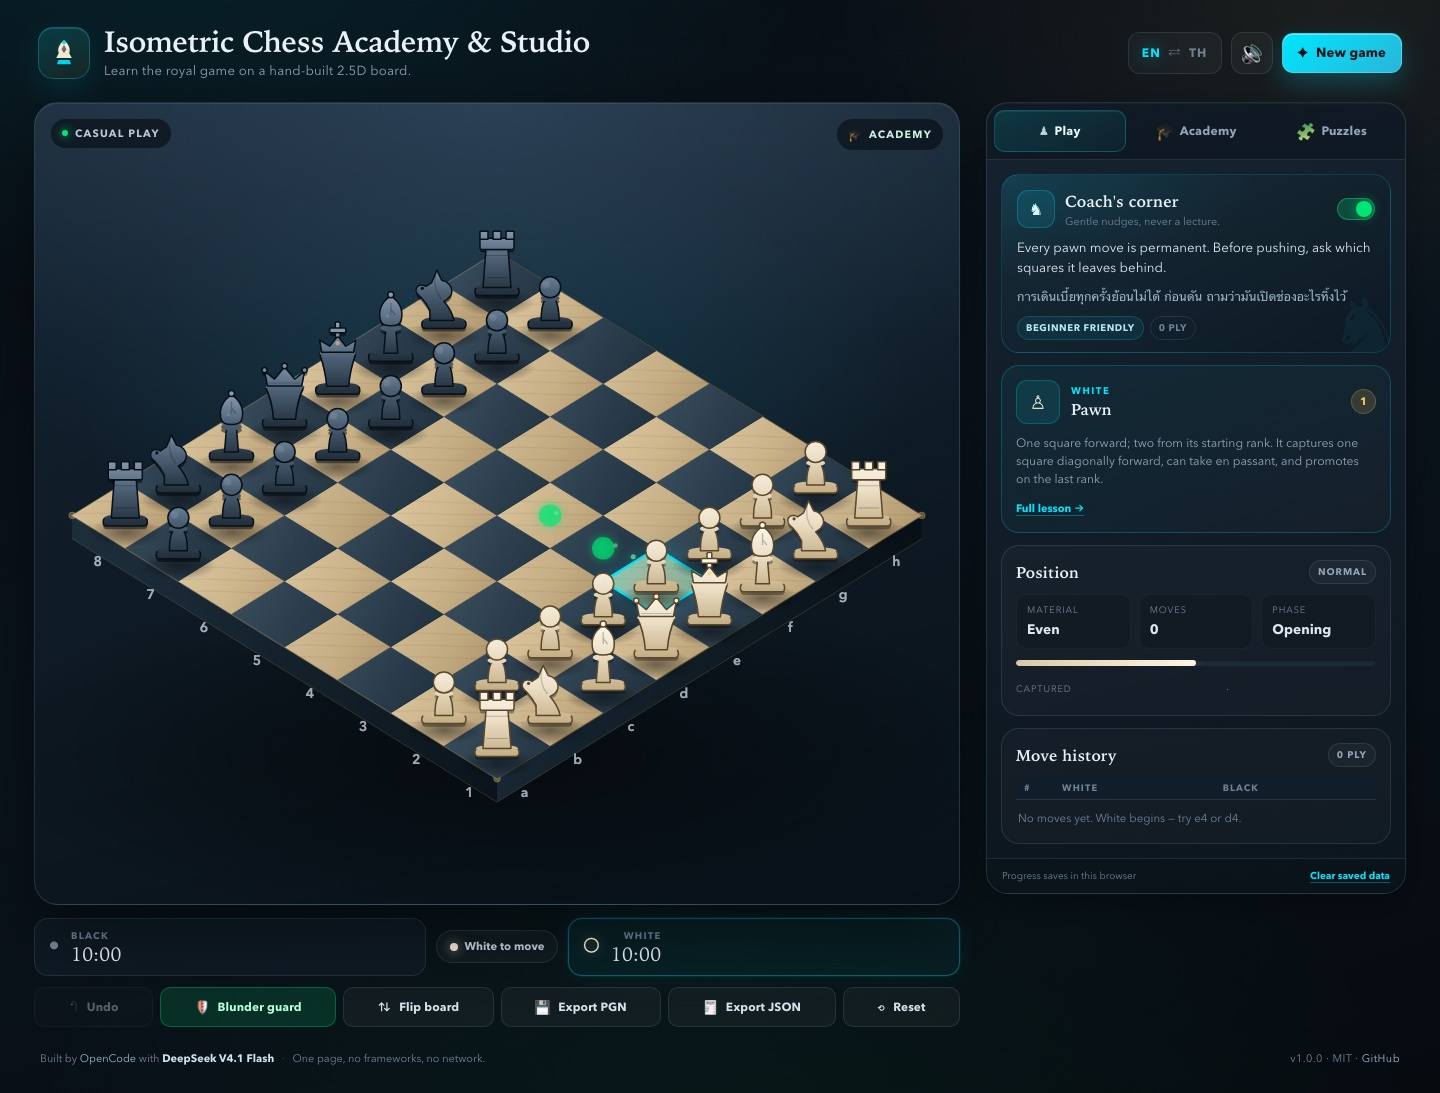
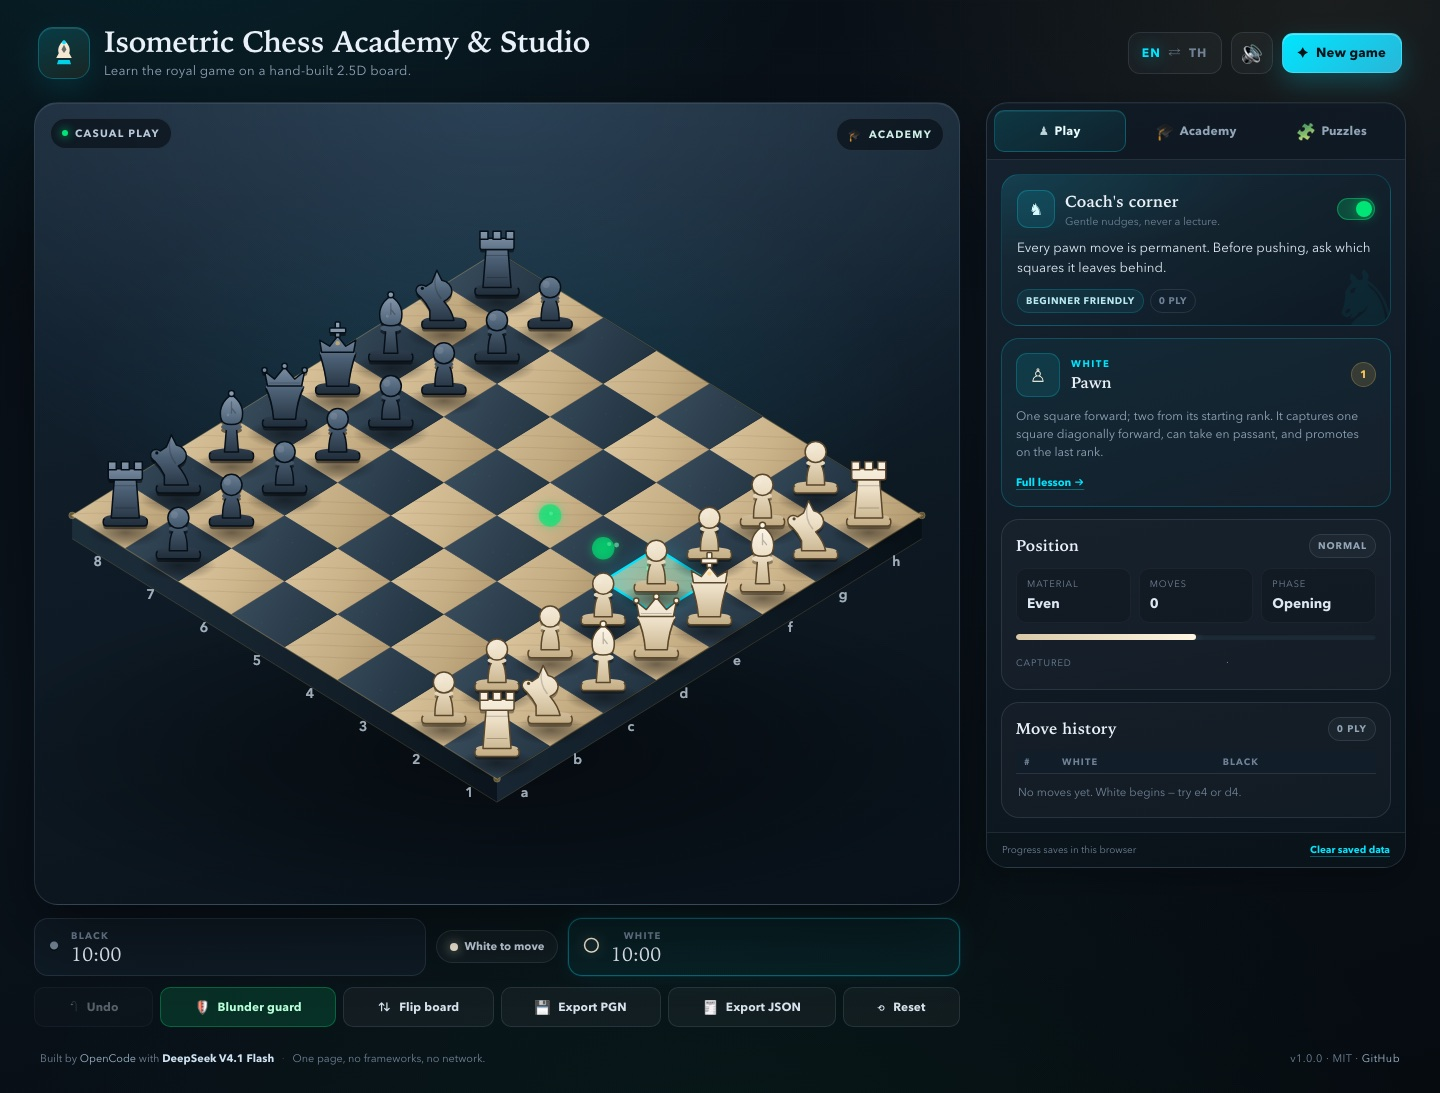
Show only the selected language in the coach and dialogs
English mode no longer displays Thai text, and Thai mode no longer
displays English coach lines or lesson paragraphs. The inactive coach
line is hidden with html[lang] CSS; blunder, undo and puzzle-solved
dialogs render the active language only and re-render when the toggle
changes while open. Refresh screenshots and add regression checks.

diff --git a/script.js b/script.js
@@ -788,6 +788,8 @@
       'blunder.tipTh': 'ก่อนเดิน ถามตัวเองว่า: หมากตัวนี้ปลอดภัยบนช่องใหม่หรือไม่?',
       'blunder.mateTipEn': 'When you are ahead, check every opponent check and capture. One careless move is enough.',
       'blunder.mateTipTh': 'เมื่อได้เปรียบ ให้ตรวจการเช็คและการกินทุกครั้งของคู่ต่อสู้ เพราะหมากพลาดครั้งเดียวก็พอ',
+      'blunder.tip': 'Before you move, ask: is this piece safe on its new square?',
+      'blunder.mateTip': 'When you are ahead, check every opponent check and capture. One careless move is enough.',
       'blunder.safe': 'The move was undone, so nothing is lost. Look for a developing move, a capture, or a check.',
       'blunder.safeTh': 'ย้อนหมากแล้ว ไม่มีอะไรเสียหาย มองหาการเดินพัฒนาหมาก การกิน หรือการเช็ค',
       'a11y.moveAnnounce': '{side} played {san}.'
@@ -953,7 +955,9 @@
       'blunder.tipTh': 'ก่อนเดิน ถามตัวเองว่า: หมากตัวนี้ปลอดภัยบนช่องใหม่หรือไม่?',
       'blunder.mateTipEn': 'When you are ahead, check every opponent check and capture. One careless move is enough.',
       'blunder.mateTipTh': 'เมื่อได้เปรียบ ให้ตรวจการเช็คและการกินทุกครั้งของคู่ต่อสู้ เพราะหมากพลาดครั้งเดียวก็พอ',
-      'blunder.safe': 'The move was undone, so nothing is lost. Look for a developing move, a capture, or a check.',
+      'blunder.tip': 'ก่อนเดิน ถามตัวเองว่า: หมากตัวนี้ปลอดภัยบนช่องใหม่หรือไม่?',
+      'blunder.mateTip': 'เมื่อได้เปรียบ ให้ตรวจการเช็คและการกินทุกครั้งของคู่ต่อสู้ เพราะหมากพลาดครั้งเดียวก็พอ',
+      'blunder.safe': 'ย้อนหมากแล้ว ไม่มีอะไรเสียหาย มองหาการเดินพัฒนาหมาก การกิน หรือการเช็ค',
       'blunder.safeTh': 'ย้อนหมากแล้ว ไม่มีอะไรเสียหาย มองหาการเดินพัฒนาหมาก การกิน หรือการเช็ค',
       'a11y.moveAnnounce': '{side} เล่น {san}'
     }
@@ -1359,6 +1363,16 @@
     updatePuzzleUI();
     updateButtons();
     renderCoach();
+    if (els.learnModal && !els.learnModal.classList.contains('hidden') && UI.learnContext) {
+      if (UI.learnContext.kind === 'undo') openUndoLearn(UI.learnContext.move);
+      else openBlunderModal(UI.learnContext.move);
+    }
+    if (els.puzzleModal && !els.puzzleModal.classList.contains('hidden') && UI.puzzleModalData) {
+      openPuzzleSolved(UI.puzzleModalData);
+    }
+    if (els.endModal && !els.endModal.classList.contains('hidden') && UI.gameOverInfo) {
+      openEndModal(UI.gameOverInfo);
+    }
     saveState();
   }
 
@@ -2914,22 +2928,19 @@
     els.learnTitle.textContent = t('learn.blunderTitle');
     els.learnBody.innerHTML = '';
     var p1 = document.createElement('p');
-    p1.setAttribute('lang', 'en');
-    p1.textContent = ex.en;
-    var p2 = document.createElement('p');
-    p2.setAttribute('lang', 'th');
-    p2.textContent = ex.th;
+    p1.setAttribute('lang', UI.lang);
+    p1.textContent = UI.lang === 'en' ? ex.en : ex.th;
     var tip = document.createElement('p');
     tip.className = 'learn-tip';
-    tip.textContent = (b.kind === 'mate' ? t('blunder.mateTipEn') : t('blunder.tipEn')) + ' · ' +
-      (b.kind === 'mate' ? t('blunder.mateTipTh') : t('blunder.tipTh'));
+    tip.setAttribute('lang', UI.lang);
+    tip.textContent = b.kind === 'mate' ? t('blunder.mateTip') : t('blunder.tip');
     els.learnBody.appendChild(p1);
-    els.learnBody.appendChild(p2);
     els.learnBody.appendChild(tip);
     els.learnUndo.classList.remove('hidden');
     els.learnUndo.textContent = t('btn.undoLearn');
     els.learnClose.textContent = t('btn.keep');
     UI.learnAction = 'undo';
+    UI.learnContext = { kind: 'blunder', move: move };
     openModal(els.learnModal, els.learnUndo);
   }
 
@@ -2939,18 +2950,17 @@
     els.learnTitle.textContent = t('learn.whyTitle');
     els.learnBody.innerHTML = '';
     var p1 = document.createElement('p');
-    p1.setAttribute('lang', 'en');
-    p1.textContent = ex.en;
-    var p2 = document.createElement('p');
-    p2.setAttribute('lang', 'th');
-    p2.textContent = ex.th;
+    p1.setAttribute('lang', UI.lang);
+    p1.textContent = UI.lang === 'en' ? ex.en : ex.th;
     var tip = document.createElement('p');
     tip.className = 'learn-tip';
-    tip.textContent = t('blunder.safe') + ' · ' + t('blunder.safeTh');
-    els.learnBody.appendChild(p1); els.learnBody.appendChild(p2); els.learnBody.appendChild(tip);
+    tip.setAttribute('lang', UI.lang);
+    tip.textContent = t('blunder.safe');
+    els.learnBody.appendChild(p1); els.learnBody.appendChild(tip);
     els.learnUndo.classList.add('hidden');
     els.learnClose.textContent = t('btn.close') || 'Got it';
     UI.learnAction = 'close';
+    UI.learnContext = { kind: 'undo', move: move };
     openModal(els.learnModal, els.learnClose);
   }
 
@@ -3120,15 +3130,11 @@
     els.puzzleText.textContent = p.success[UI.lang];
     els.puzzleLesson.innerHTML = '';
     var p1 = document.createElement('p');
+    p1.setAttribute('lang', UI.lang);
     p1.textContent = p.lesson[UI.lang];
-    var p2 = document.createElement('p');
-    p2.setAttribute('lang', UI.lang === 'en' ? 'th' : 'en');
-    p2.style.color = 'var(--muted)';
-    p2.style.fontSize = '0.78rem';
-    p2.textContent = p.lesson[UI.lang === 'en' ? 'th' : 'en'];
     els.puzzleLesson.appendChild(p1);
-    els.puzzleLesson.appendChild(p2);
     els.puzzleLesson.classList.remove('hidden');
+    UI.puzzleModalData = p;
     openModal(els.puzzleModal, els.puzzleNext);
     updatePuzzleUI();
   }

diff --git a/style.css b/style.css
@@ -553,12 +553,13 @@ a:hover { text-decoration: underline; }
 }
 .coach-line.coach-th {
   font-family: var(--font-thai);
-  font-size: 0.78rem;
-  color: #9fb4c6;
+  font-size: 0.83rem;
+  color: #dfeaf3;
   padding-top: 1px;
 }
-html[lang="th"] .coach-line.coach-en { color: #8698aa; font-size: 0.75rem; }
-html[lang="th"] .coach-line.coach-th { color: #e3f1fa; font-size: 0.86rem; }
+/* Only the selected language is shown. The toggle swaps the visible line. */
+html[lang="en"] .coach-th { display: none; }
+html[lang="th"] .coach-en { display: none; }
 
 .coach-foot { display: flex; gap: 6px; flex-wrap: wrap; margin-top: 10px; position: relative; z-index: 1; }
 .coach-pill {

diff --git a/docs/TESTING.md b/docs/TESTING.md
@@ -7,7 +7,7 @@ node --check script.js
 node scripts/check.mjs
 ```
 
-`scripts/check.mjs` has no dependencies and currently runs 77 checks (70 app checks, plus 7 state-file checks once `state.json` exists):
+`scripts/check.mjs` has no dependencies and currently runs 79 checks (72 app checks, plus 7 state-file checks once `state.json` exists):
 
 | Area | What is checked |
 |------|-----------------|
@@ -33,9 +33,9 @@ Exercised:
 - **Promotion:** pawn a7→a8 opened the four-choice modal; choosing queen placed a white queen on a8 with SAN `a8=Q+`.
 - **Checkmate:** back-rank position Qd8 produced `#`, opened the end modal with "Checkmate", and PGN `[Result "1-0"]`.
 - **En passant:** e5xd6 ep removed the d5 pawn, produced `exd6`, and the FEN matched.
-- **Blunder guard:** the line `e4 e5 Nf3 Nc6 Bc4 Nf6 Ng5 d5 exd5 Nxd5 Nxf7` flagged the knight on f7 as hanging to the king; modal opened with bilingual text, "Watch out" mood, `Undo & learn` and `Keep the move`. Undo restored the position and reopened the "why" lesson.
+- **Blunder guard:** the line `e4 e5 Nf3 Nc6 Bc4 Nf6 Ng5 d5 exd5 Nxd5 Nxf7` flagged the knight on f7 as hanging to the king; modal opened with text in the selected language, "Watch out" mood, `Undo & learn` and `Keep the move`. Undo restored the position and reopened the "why" lesson.
 - **Puzzles:** back-rank and ladder mate solved; wrong ladder move reset the streak, incremented attempts, rejected before commit; hint revealed; solved modal and streaks updated.
-- **i18n:** EN ⇄ TH changed the title, controls, piece inspector (Knight → อัศวิน), movement text, puzzle list and coach; blunder text used Thai piece names in the Thai line.
+- **i18n:** EN ⇄ TH changed the title, controls, piece inspector (Knight → อัศวิน), movement text, puzzle list and coach; a visible-text scan found no Thai characters in English mode (initial, blunder modal, puzzle modal), and blunder text used Thai piece names in Thai mode.
 - **Persistence:** after a reload, `e4 e5`, language `th`, clock values, puzzle solved list and undo-enabled state were restored.
 - **Export:** PGN headers/SAN/result; JSON parses with `fen`, `history`, `puzzles`, `settings`.
 - **Mobile:** 390×844, `scrollWidth === innerWidth`, canvas 368 px wide, no horizontal overflow.
@@ -50,7 +50,7 @@ Run after any rule, projection, i18n or layout change:
 3. Push a pawn two squares; immediately capture en passant with an adjacent pawn.
 4. Promote to each of Q/R/B/N; check board, SAN and sound.
 5. Scholar's mate or the back-rank puzzle; confirm end modal, result header and clocks stop.
-6. Hang a queen; confirm the blunder modal appears (guard on), explain both languages, undo and replay.
+6. Hang a queen; confirm the blunder modal appears (guard on), switch EN/TH while it is open and confirm it re-renders in the selected language, then undo and replay.
 7. Toggle learning off → coach dims; toggle on → coach returns.
 8. Flip the board, select and move a piece by clicking; labels stay correct.
 9. Switch EN ⇄ TH on each tab; inspect a piece; open a puzzle.

diff --git a/AGENTS.md b/AGENTS.md
@@ -2,7 +2,7 @@
 
 ## 1. What this is
 
-A static, offline, bilingual teaching app for **standard international chess** — one HTML page, three source files, no build and no network. It renders an 8×8 board in a 2.5D isometric projection, plays a full casual game locally (two humans, hot-seat), and wraps it in an academy: piece inspector, bilingual coach, blunder guard, five puzzle drills, synthesized audio, localStorage and PGN/JSON export.
+A static, offline, bilingual teaching app for **standard international chess** — one HTML page, three source files, no build and no network. It renders an 8×8 board in a 2.5D isometric projection, plays a full casual game locally (two humans, hot-seat), and wraps it in an academy: piece inspector, language-aware coach, blunder guard, five puzzle drills, synthesized audio, localStorage and PGN/JSON export.
 
 It is **not** Thai chess (Makruk), not a chess server, not an AI opponent, and not a framework starter. Thai is only an interface language. Current release: **v1.0.0**.
 
@@ -54,7 +54,7 @@ Persistence: the casual game is stored as `{ fen, initialFen, moves[], clocks }`
 - **No dependencies, no CDN, no web fonts, no runtime network.** The app must work from `file://` and GitHub Pages. `scripts/check.mjs` rejects external stylesheets/scripts/images and `fetch`/XHR/WebSocket in `script.js`.
 - **The projection is fixed.** Board coordinates, `tileCenter`, `pointToSquare`, piece draw order and the hit-test silhouette all depend on it. If you change `TH` or the origin, change all four together and re-test flipped clicks.
 - **Puzzles are data, not code.** They live in the `#puzzle-data` JSON block in `index.html`. Each expected move must be legal and, where marked, must produce mate/check; `scripts/check.mjs` enforces this. Do not add a puzzle with an illegal FEN — the side not to move must not be in check.
-- **i18n must stay symmetric.** Every key exists in `en` and `th`; static text uses `data-i18n`, dynamic text uses `t()`. CI fails on divergence or a missing static/dynamic key.
+- **i18n must stay symmetric.** Every key exists in `en` and `th`; static text uses `data-i18n`, dynamic text uses `t()`. CI fails on divergence or a missing static/dynamic key. **Only the selected language may be visible:** the coach hides the inactive line with `html[lang]` CSS, and modals render only the active language.
 - **The blunder guard is heuristic**, not a search engine. It flags hanging pieces, losing exchanges and allowed mate-in-one. It must explain, never scold, and must offer undo.
 - **Timers pause while a modal is open.** Clock state lives in `UI.clocks` and is saved; the first move starts the clock.
 - **`state.json` is historical.** It records the build session, token usage and deployment. Do not wire it into runtime logic and do not refresh it to hide history.

diff --git a/README.md b/README.md
@@ -30,8 +30,8 @@ Most beginner chess sites are either a bare board or a wall of theory. This stud
 
 ### The Academy
 - **Piece inspector** for all six pieces: point value, movement rules, tactical role, a short history and a coach's tip. Opening it lights the piece's legal paths on the board.
-- **Bilingual coach** (English / ภาษาไทย) that reacts to the position: centre control, development, king safety, material balance, checks and loose pieces.
-- **Blunder guard** — after a move, the engine checks whether the piece is hanging, losing an exchange, or allowing mate in one. If it is, a pop-up explains the problem in both languages and offers **Undo & learn**.
+- **Language-aware coach** (English or ภาษาไทย, following the toggle) that reacts to the position: centre control, development, king safety, material balance, checks and loose pieces.
+- **Blunder guard** — after a move, the engine checks whether the piece is hanging, losing an exchange, or allowing mate in one. If it is, a pop-up explains the problem in the selected language and offers **Undo & learn**.
 - **Compact peek card** in the Play tab so clicking a piece always brings up its explanation, even while playing.
 
 ### The puzzles
@@ -48,7 +48,7 @@ Five drills loaded from a local JSON block in `index.html`:
 Each puzzle has a hint, a bilingual lesson, attempts tracking, a completion streak and a best streak. Progress is saved separately from the casual game.
 
 ### Language and persistence
-- **EN ⇄ TH toggle** translates every control, tab, lesson, piece description and puzzle. The coach always shows both languages, with the active one emphasised.
+- **EN ⇄ TH toggle** translates every control, tab, lesson, piece description, puzzle and dialog. Only the selected language is shown; switching also re-renders any open lesson.
 - Auto-saves the ongoing game (move list, clocks, settings) and puzzle streaks to `localStorage` under `isometricChessAcademy.v1`.
 - **Export PGN** (`isometric_chess_game.pgn`) and **Export JSON** (`isometric_chess_progress.json`) download the current game, history, clocks, settings and puzzle progress.
 
